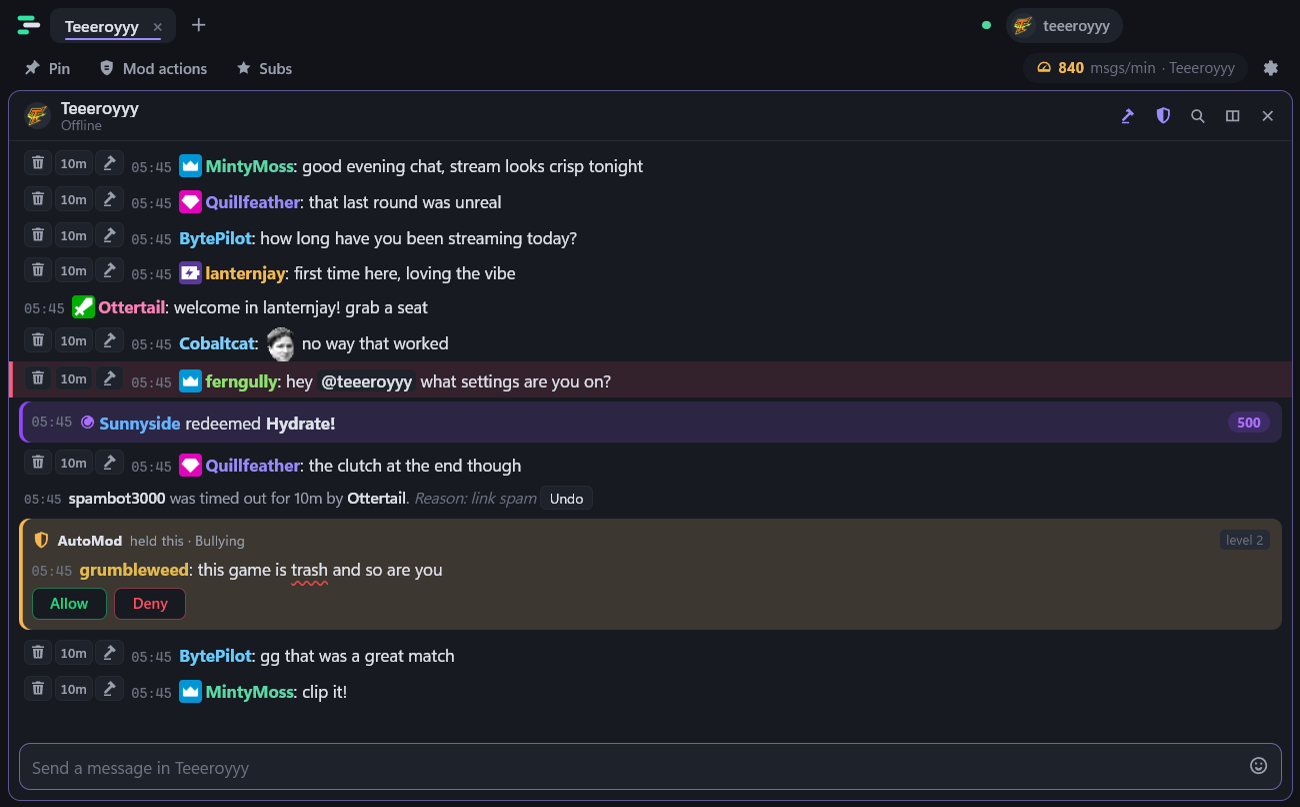
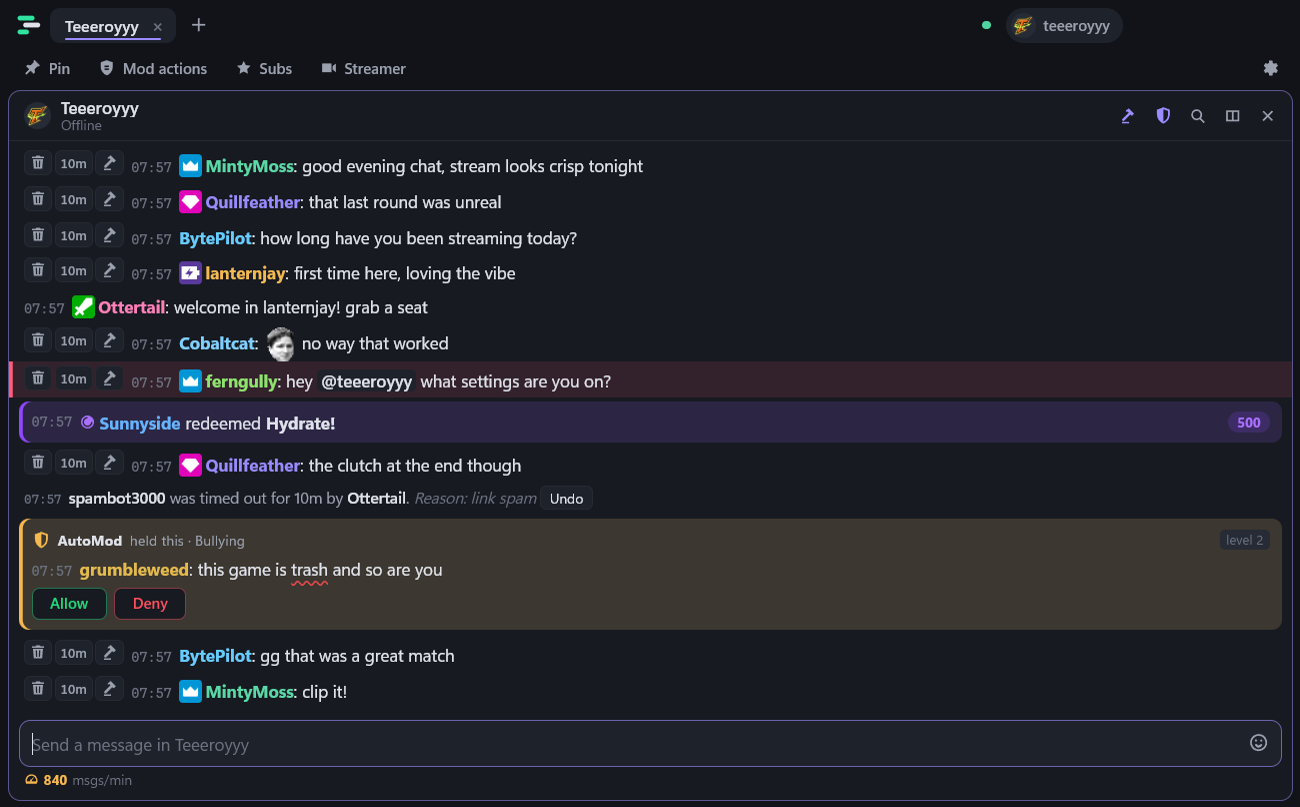
Update website

diff --git a/docs/guide/index.html b/docs/guide/index.html
@@ -39,7 +39,7 @@
     "name": "Chattler",
     "operatingSystem": "Windows 10, Windows 11",
     "applicationCategory": "CommunicationApplication",
-    "softwareVersion": "1.13.1",
+    "softwareVersion": "1.13.2",
     "url": "https://chattler.net/"
   },
   "author": {
@@ -224,7 +224,7 @@
 <h2 id="a-tour-of-the-window"><a class="anchor" href="#a-tour-of-the-window" aria-hidden="true">#</a>A tour of the window</h2>
 <pre><code>┌───────────────────────────────────────────────────────────────────────────┐
 │ ≡  [Tab A] [Tab B • ] +                  ● you          - ▢ ✕            │  ← title bar
-│ 📌 Pin  🛡 Mod actions  ★ Subs            ◔ 1,240 msgs/min · Channel   ⚙ │  ← toolbar
+│ 📌 Pin  🛡 Mod actions  ★ Subs  🎥 Streamer                           ⚙ │  ← toolbar
 ├───────────────────────────────────┬───────────────────────────────────────┤
 │ (◉) Channel  LIVE 1,514 watching  │ (◉) Other channel   Offline           │  ← split headers
 │ Live for 2h · Game · Title…  🔨🛡🔍⊞✕│                          🔍 ⊞ ✕       │
@@ -232,6 +232,7 @@
 │ 🗑 10m 🔨 20:53 name: message      │ 20:53 name: message                   │  ← chat
 │ …                                 │ …                                     │
 │ [ Send a message…            ☺ ] │ [ Send a message…              ☺ ]    │  ← message box
+│ ◔ 1,240 msgs/min                  │ ◔ 12 msgs/min                         │  ← chat meter
 └───────────────────────────────────┴───────────────────────────────────────┘
 </code></pre>
 <p><strong>Title bar, left to right</strong></p>
@@ -247,9 +248,10 @@
 <li><strong>🛡 Mod actions</strong> - opens the <a href="#mod-actions-window">Mod actions window</a>.</li>
 <li><strong>★ Subs</strong> - opens the <a href="#subs-window">Subs window</a>.</li>
 <li><strong>🎥 Streamer</strong> - <a href="#streamer-mode-in-the-toolbar">Streamer mode</a>: hides your name and login codes, and silences sounds and notifications.</li>
-<li><strong>Chat meter</strong> - roughly how many messages a minute the chat you&#39;re in is getting, and which chat that is. It refreshes every 5 seconds. It turns amber when a chat is busy (300+ a minute) and red when it&#39;s flooding (1,500+).</li>
 <li><strong>⚙ Settings</strong>.</li>
 </ul>
+<p><strong>Chat meter, under each message box</strong></p>
+<p>Roughly how many messages a minute that chat is getting. Each chat has its own, so with splits you can see at a glance which one is moving. It refreshes every 5 seconds, turns amber when a chat is busy (300+ a minute) and red when it&#39;s flooding (1,500+).</p>
 <p><strong>Tabs</strong> show a <strong>green dot</strong> if someone in the tab is live, the tab name, a <strong>purple dot</strong> for unread messages (red if you were highlighted), and <strong>×</strong> to close.</p>
 <p><strong>Each chat (&quot;split&quot;)</strong> has a header with the avatar (red ring when live), name, <strong>LIVE</strong> badge, viewers, uptime, game and title, plus these buttons:</p>
 <div class="table-wrap"><table>
@@ -898,7 +900,7 @@
 <p><strong>Windows says &quot;Windows protected your PC&quot; when installing.</strong> Expected, because the installer isn&#39;t code-signed: <strong>More info → Run anyway</strong>.</p>
 <p><strong>How do I remove Chattler?</strong> Windows Settings → Apps → <strong>Chattler</strong> → Uninstall.</p>
 
-    <p class="guide-foot">Written for Chattler 1.13.1. <a href="guide.md" download="Chattler-Guide.md">Download this guide as Markdown</a>.</p>
+    <p class="guide-foot">Written for Chattler 1.13.2. <a href="guide.md" download="Chattler-Guide.md">Download this guide as Markdown</a>.</p>
   </article>
 </div>
 

diff --git a/docs/screenshots/index.html b/docs/screenshots/index.html
@@ -46,16 +46,16 @@
 
   <figure class="shot wide">
     <a href="../assets/shots/chat.png" target="_blank" rel="noopener">
-      <img src="../assets/shots/chat.png" alt="Chattler's main window: tabs at the top, the toolbar with Pin, Mod actions, Subs and the chat meter, and a busy chat with moderation buttons on each line." width="1300" height="807">
+      <img src="../assets/shots/chat.png" alt="Chattler's main window: tabs at the top, the toolbar with Pin, Mod actions, Subs and Streamer, a busy chat with moderation buttons on each line, and the chat meter under the message box." width="1300" height="807">
     </a>
-    <figcaption><b>Chat</b> Tabs, the toolbar with the chat meter, per-message moderation buttons, a channel point redemption, a timeout naming the moderator, and an AutoMod held message with Allow and Deny.</figcaption>
+    <figcaption><b>Chat</b> Tabs, the toolbar, per-message moderation buttons, a channel point redemption, a timeout naming the moderator, an AutoMod held message with Allow and Deny, and the chat meter under the message box.</figcaption>
   </figure>
 
   <figure class="shot wide">
     <a href="../assets/shots/splits.png" target="_blank" rel="noopener">
-      <img src="../assets/shots/splits.png" alt="Two Twitch chats side by side in one Chattler tab." width="1300" height="807" loading="lazy">
+      <img src="../assets/shots/splits.png" alt="Two Twitch chats side by side in one Chattler tab, each with its own messages-per-minute meter under its message box." width="1300" height="807" loading="lazy">
     </a>
-    <figcaption><b>Splits</b> Watch several chats side by side in one tab. Drag the divider to resize, drag a chat's header to move it to another tab.</figcaption>
+    <figcaption><b>Splits</b> Watch several chats side by side in one tab, each with its own chat meter. Drag the divider to resize, drag a chat's header to move it to another tab.</figcaption>
   </figure>
 
   <div class="shot-row">

diff --git a/docs/index.html b/docs/index.html
@@ -42,7 +42,7 @@
   "description": "A fast, free Twitch chat client for Windows with tabs and splits, 7TV, BetterTTV and FrankerFaceZ emotes, and one-click moderation tools including AutoMod, staff history and user cards.",
   "applicationCategory": "CommunicationApplication",
   "operatingSystem": "Windows 10, Windows 11",
-  "softwareVersion": "1.13.1",
+  "softwareVersion": "1.13.2",
   "releaseNotes": "https://chattler.net/#releases",
   "downloadUrl": "https://chattler.net/#download",
   "installUrl": "https://chattler.net/#download",

diff --git a/docs/guide/guide.md b/docs/guide/guide.md
@@ -73,7 +73,7 @@ You only log in once; Chattler renews your login in the background. To switch ac
 ```
 ┌───────────────────────────────────────────────────────────────────────────┐
 │ ≡  [Tab A] [Tab B • ] +                  ● you          - ▢ ✕            │  ← title bar
-│ 📌 Pin  🛡 Mod actions  ★ Subs            ◔ 1,240 msgs/min · Channel   ⚙ │  ← toolbar
+│ 📌 Pin  🛡 Mod actions  ★ Subs  🎥 Streamer                           ⚙ │  ← toolbar
 ├───────────────────────────────────┬───────────────────────────────────────┤
 │ (◉) Channel  LIVE 1,514 watching  │ (◉) Other channel   Offline           │  ← split headers
 │ Live for 2h · Game · Title…  🔨🛡🔍⊞✕│                          🔍 ⊞ ✕       │
@@ -81,6 +81,7 @@ You only log in once; Chattler renews your login in the background. To switch ac
 │ 🗑 10m 🔨 20:53 name: message      │ 20:53 name: message                   │  ← chat
 │ …                                 │ …                                     │
 │ [ Send a message…            ☺ ] │ [ Send a message…              ☺ ]    │  ← message box
+│ ◔ 1,240 msgs/min                  │ ◔ 12 msgs/min                         │  ← chat meter
 └───────────────────────────────────┴───────────────────────────────────────┘
 ```
 
@@ -97,8 +98,11 @@ You only log in once; Chattler renews your login in the background. To switch ac
 - **🛡 Mod actions** - opens the [Mod actions window](#mod-actions-window).
 - **★ Subs** - opens the [Subs window](#subs-window).
 - **🎥 Streamer** - [Streamer mode](#streamer-mode-in-the-toolbar): hides your name and login codes, and silences sounds and notifications.
-- **Chat meter** - roughly how many messages a minute the chat you're in is getting, and which chat that is. It refreshes every 5 seconds. It turns amber when a chat is busy (300+ a minute) and red when it's flooding (1,500+).
 - **⚙ Settings**.
+
+**Chat meter, under each message box**
+
+Roughly how many messages a minute that chat is getting. Each chat has its own, so with splits you can see at a glance which one is moving. It refreshes every 5 seconds, turns amber when a chat is busy (300+ a minute) and red when it's flooding (1,500+).
 
 **Tabs** show a **green dot** if someone in the tab is live, the tab name, a **purple dot** for unread messages (red if you were highlighted), and **×** to close.
 
